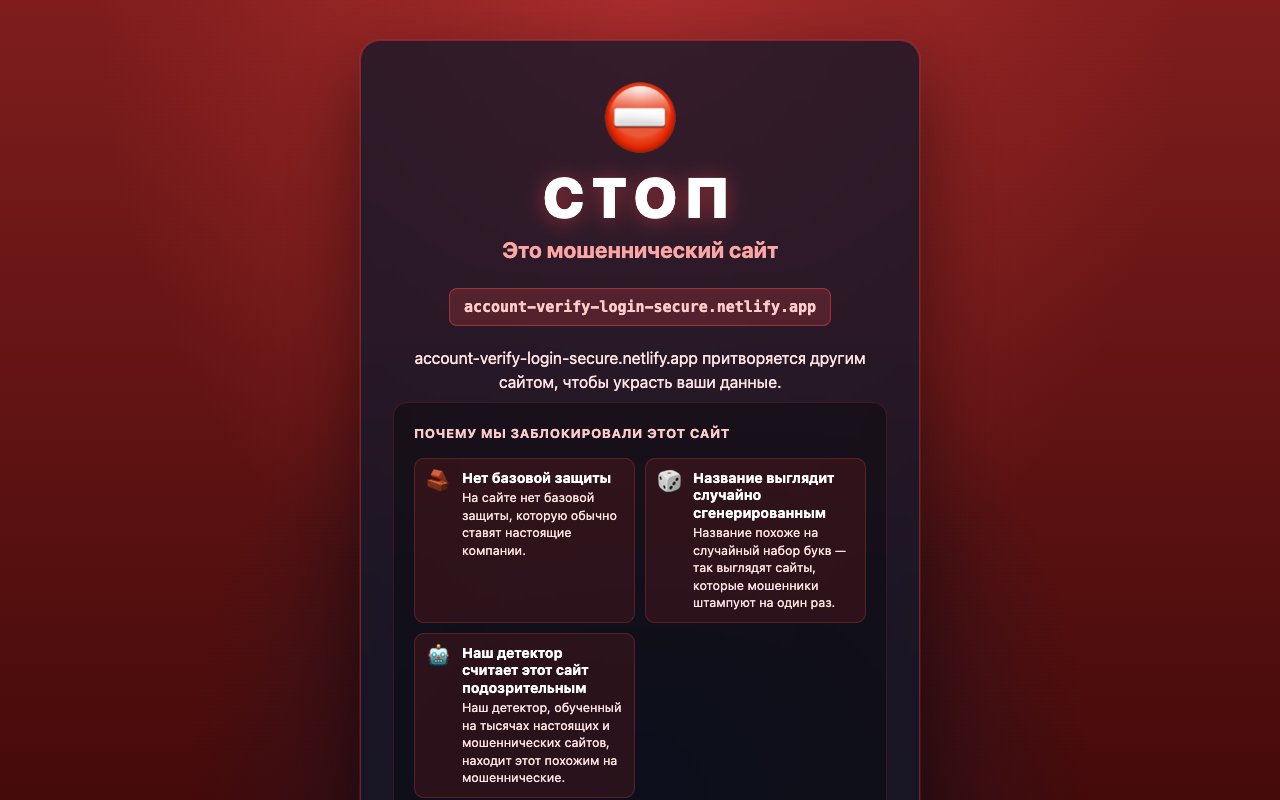
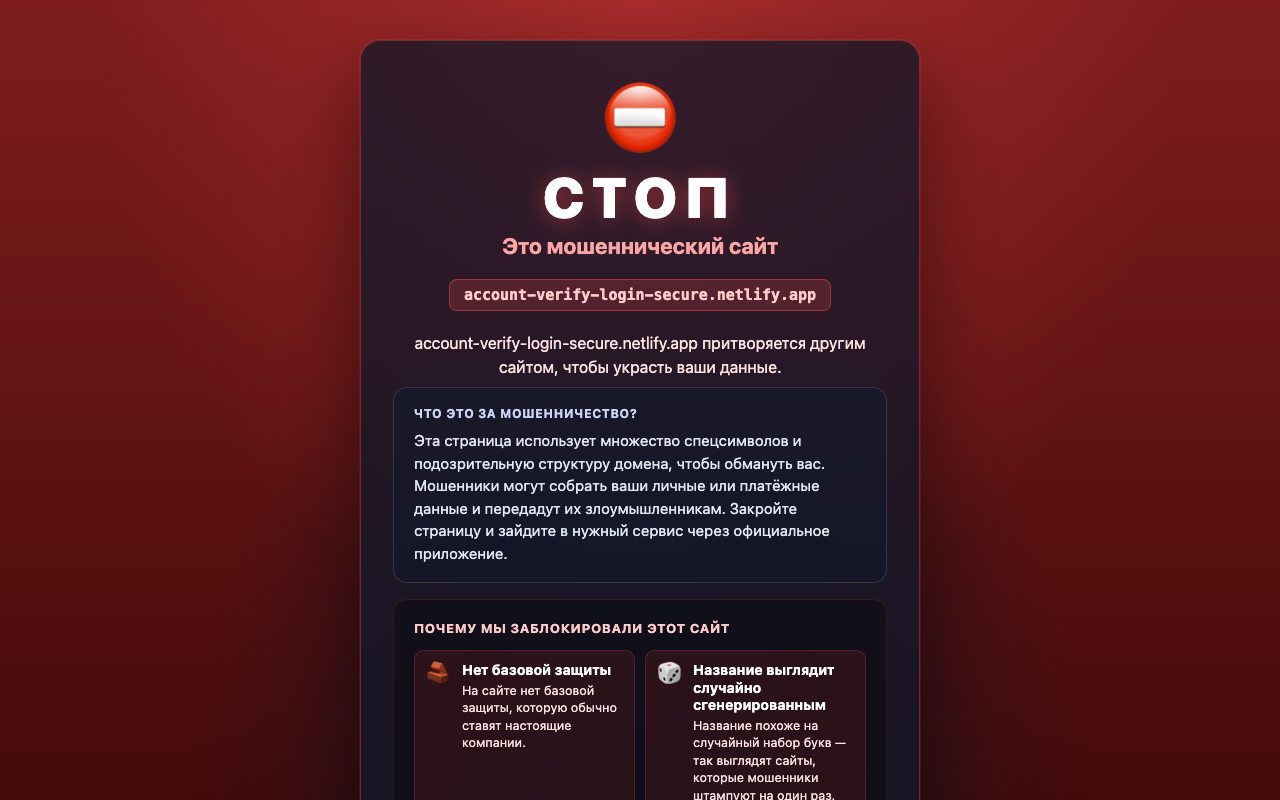
docs(stores): 0.2.1 submission kit, store screenshots of the new block page
- STORE_SUBMISSION_KIT, CWS_SUBMISSION, STORES §7, FOUNDER_TASKS,
  USER_ACTION_NOW, PLAN, the retired CWS listing checklist and
  extension/STORE_LISTING evidence name the 0.2.1 artifacts.
- storage justification and data-usage notes: the access token and the
  block page's "open anyway" allowances live in chrome.storage.session;
  the host justification says content scripts detect a dangerous page and
  the extension replaces it with its own warning page. Permissions are
  unchanged from 0.2.0.
- Store screenshots recaptured (en + ru) from the 0.2.1 build: 02 and 03
  showed the old in-page overlay. capture.mjs now waits for the tab to land
  on blocked.html.

Changed region(s): [[0.3125, 0.2812, 0.6875, 1.0]]

diff --git a/docs/CWS_SUBMISSION.md b/docs/CWS_SUBMISSION.md
@@ -1,4 +1,4 @@
-# Chrome Web Store — Submission Pack (Cleanway 0.2.0)
+# Chrome Web Store — Submission Pack (Cleanway 0.2.1)
 
 Code-grounded, copy-paste-ready answers for the CWS submission form. Everything
 here was derived from the **actual extension source** (`packages/extension-core/src/`)
@@ -21,9 +21,9 @@ survives review. A declaration that doesn't match the code gets the extension
 
 | Item | Value |
 |---|---|
-| Artifact | `dist/store-artifacts/cleanway-0.2.0-chrome.zip` (also valid for Edge/Opera/Brave/Vivaldi) |
-| Version | 0.2.0 (from `extension/manifest.json`; same in the Firefox and Safari manifests) |
-| SHA-256 | see `dist/store-artifacts/cleanway-0.2.0-sha256.txt` |
+| Artifact | `dist/store-artifacts/cleanway-0.2.1-chrome.zip` (also valid for Edge/Opera/Brave/Vivaldi) |
+| Version | 0.2.1 (from `extension/manifest.json`; same in the Firefox and Safari manifests) |
+| SHA-256 | see `dist/store-artifacts/cleanway-0.2.1-sha256.txt` |
 | Manifest | MV3, no remote code, no `eval`/obfuscation |
 | Icons | 16/32/48/128 present in `extension/public/icons/` |
 | Privacy policy URL | https://cleanway.ai/privacy-policy |
@@ -64,7 +64,7 @@ the user switches the webmail scanner on in Settings.
 | Permission | Justification |
 |---|---|
 | `activeTab` | Reads the active tab's URL only when the user runs the "Check page" command or a context-menu action, to score that page. |
-| `storage` | Stores user settings, local protection statistics, the opt-in webmail switch, sign-in tokens (if the user signs in), the random install ID and Family Hub key material in `chrome.storage.local`. |
+| `storage` | Stores user settings, local protection statistics, the opt-in webmail switch, the refresh token (if the user signs in), the random install ID and Family Hub key material in `chrome.storage.local`; the short-lived access token in `chrome.storage.session`, limited to the extension's own pages and background (`utils/token-store.js`), and the per-tab "open anyway" allowances of the block page (`background/block-redirect.js`). |
 | `alarms` | Runs periodic background jobs that must survive MV3 service-worker suspension: local history pruning (30 days), refreshing the sign-in before it expires, and the Family Hub notification poll. |
 | `contextMenus` | Adds right-click items "Check with Cleanway" (links) and "Privacy Audit" (pages) so users can trigger a check on demand. |
 | `notifications` | Shows OS notifications for Family Hub alerts (a family member's device blocked a dangerous site), with a click handler that opens the relevant page (`utils/family-notifier.js`). |
@@ -109,7 +109,7 @@ egress paths. **Bold = you must tick "collected" and disclose.**
 |---|---|---|
 | **Web history** | **YES** | Domain (hostname only, no full URL/path/query) of unknown links/pages is sent to `api.cleanway.ai/api/v1/public/check` to score safety. Known-safe + cached domains are never sent. `feedback/report` sends a domain when the user reports a wrong verdict. |
 | **Personal communications** | **YES** | Webmail scan (opt-in, off by default, Gmail/Outlook/Yahoo) sends **each message the user opens** — subject, sender name and address, Reply-To, body text, and the address and text of each link (not the HTML) — to `api/v1/email/analyze` for phishing analysis. Processed in memory, not stored. No other messages, recipients, thread IDs, or attachments. |
-| **Authentication info** | **YES** | Breach check sends only the **first 5 hex chars of the SHA-1** of a typed password (k-anonymity) to `api/v1/breach/check` — never the password or full hash. Signed-in users send the access token on account calls; the refresh token goes only to our Supabase project. Tokens are stored in `chrome.storage.local` and deleted by "Sign out". |
+| **Authentication info** | **YES** | Breach check sends only the **first 5 hex chars of the SHA-1** of a typed password (k-anonymity) to `api/v1/breach/check` — never the password or full hash. Signed-in users send the access token on account calls; the refresh token goes only to our Supabase project. The refresh token is stored in `chrome.storage.local`, the access token in `chrome.storage.session` (not readable by content scripts); "Sign out" deletes both. |
 | **Personally identifiable info** | **YES (signed-in users)** | Sign-in happens on cleanway.ai; the extension stores the email address and account ID locally. Device registration (`POST /api/v1/me/devices`) sends the random install ID, the browser's name and the extension version. Family Hub (optional) sends a display name and invite; alert contents are **end-to-end encrypted**. |
 | **User activity** | **YES** | Aggregate: dangerous-block counts (integer only, signed-in users), device display settings, and the site name the user reports with "Wrong result?". |
 | Location | No | — |
@@ -144,7 +144,7 @@ content,"* and *"we never sell your data."* Both are true and on-brand. See
 
 ## 6. Screenshots and promo tiles
 
-Done (2026-10-13), EN and RU, 1280×800, real captures of the 0.2.0 build with
+Done (2026-10-21), EN and RU, 1280×800, real captures of the 0.2.1 build with
 live API verdicts: `store-assets/browser-extension/screenshots/{en,ru}/01…05.png`
 — link badges, popup verdict (composited over its tab, see the README there),
 block page, credential warning, Settings. Promo tiles 440×280 and 1400×560 in
@@ -167,7 +167,7 @@ real mailbox) and the Privacy Audit panel.
 ## 8. Upload checklist
 
 1. [ ] Create/sign in to the CWS developer account ($5 one-time).
-2. [ ] Upload `cleanway-0.2.0-chrome.zip`.
+2. [ ] Upload `cleanway-0.2.1-chrome.zip`.
 3. [ ] Paste listing name / summary / description from `extension/STORE_LISTING.md` (§1).
 4. [ ] Paste single-purpose (§2) + permission justifications (§3).
 5. [ ] Fill Privacy practices (§4): tick every category marked YES, add the

diff --git a/docs/STORES.md b/docs/STORES.md
@@ -11,7 +11,7 @@ image and form answer for Google Play, Chrome, Edge, Firefox and Opera, in
 console order. The Android app's **Google Play** evidence (Data safety, VPN and
 foreground-service declarations, account-deletion URL, console checklist) is §6
 below; the targetSdk-36 build comes from the Expo SDK 54 upgrade (§6.A),
-submission still waits for the founder TODOs in §6.0. §7 is the 0.2.0
+submission still waits for the founder TODOs in §6.0. §7 is the 0.2.1
 checklist for the browser stores. The RuStore listing is in
 `docs/RUSTORE_SUBMISSION.md` §7.
 
@@ -194,7 +194,7 @@ App Store notes for the extension:
   test host, never a real brand's look-alike.
 - **Version**: the extension's `CFBundleShortVersionString` follows the app
   (`app.json` `version`); the manifest keeps its own extension version
-  (0.2.0) — Safari shows the app's.
+  (0.2.1) — Safari shows the app's.
 
 ### 5.2 Mac: a separate macOS app
 
@@ -460,11 +460,11 @@ permission in `app.json` (`blockedPermissions`) before uploading.
 
 ---
 
-## 7. Browser stores — console checklist for 0.2.0
+## 7. Browser stores — console checklist for 0.2.1
 
 All four uploads come from `bash scripts/build-extensions.sh && bash
-scripts/build-store-artifacts.sh` (`dist/store-artifacts/cleanway-0.2.0-*.zip`,
-checksums in `cleanway-0.2.0-sha256.txt`). Verify before uploading:
+scripts/build-store-artifacts.sh` (`dist/store-artifacts/cleanway-0.2.1-*.zip`,
+checksums in `cleanway-0.2.1-sha256.txt`). Verify before uploading:
 
 ```bash
 node scripts/test-extension-core.mjs && node scripts/test-extension-auth.mjs \
@@ -472,17 +472,24 @@ node scripts/test-extension-core.mjs && node scripts/test-extension-auth.mjs \
 npx -y web-ext@8 lint --source-dir extension-firefox   # 0 errors expected
 ```
 
-What 0.2.0 contains: the opt-in webmail scanner (PR #117 — off by default, mail
+What 0.2.1 adds over the never-submitted 0.2.0 (CHANGELOG `[Extension 0.2.1]`):
+the block page is the extension's own `src/blocked/blocked.html` (PR #207, the
+tab is taken there instead of an overlay inside the scam page), the access
+token lives in `chrome.storage.session` (#207), the API address is allowlisted
+(#196), hosting-tenant and dynamic-DNS name rules (#224), the popup over the
+block page says "scam" instead of "safe" (this release). Permissions are unchanged.
+
+What 0.2.0 already had: the opt-in webmail scanner (PR #117 — off by default, mail
 sites are optional permissions, Firefox's data-collection consent on Firefox
 140+) and sign-in through cleanway.ai with device registration (PR #107).
 
 | Store | Founder action |
 |---|---|
-| Chrome Web Store | Upload `cleanway-0.2.0-chrome.zip`; everything else: `docs/STORE_SUBMISSION_KIT.md` §3 (evidence: `docs/CWS_SUBMISSION.md` §3–5). |
-| Edge Add-ons | Upload `cleanway-0.2.0-edge.zip`; `docs/STORE_SUBMISSION_KIT.md` §4. |
-| Opera add-ons | Upload `cleanway-0.2.0-opera.zip`; same listing. |
-| Firefox AMO | Upload `cleanway-0.2.0-firefox.zip`. The manifest declares Firefox's `data_collection_permissions` (required: browsing activity, authentication information; optional: personal communications, website content — the webmail switch asks for these). Source code: our JS is unminified, but two vendored third-party libraries are minified — upload `cleanway-0.2.0-firefox-source.zip` and paste the reviewer notes (`docs/STORE_SUBMISSION_KIT.md` §5). Privacy policy URL. Notes for the reviewer: "Webmail scanning is off by default and asks for the mail sites and Firefox's data consent when switched on in Settings." |
-| Safari (Mac) | `xcrun safari-web-extension-converter dist/store-artifacts/cleanway-0.2.0-safari/` (§5.2 above). |
+| Chrome Web Store | Upload `cleanway-0.2.1-chrome.zip`; everything else: `docs/STORE_SUBMISSION_KIT.md` §3 (evidence: `docs/CWS_SUBMISSION.md` §3–5). |
+| Edge Add-ons | Upload `cleanway-0.2.1-edge.zip`; `docs/STORE_SUBMISSION_KIT.md` §4. |
+| Opera add-ons | Upload `cleanway-0.2.1-opera.zip`; same listing. |
+| Firefox AMO | Upload `cleanway-0.2.1-firefox.zip`. The manifest declares Firefox's `data_collection_permissions` (required: browsing activity, authentication information; optional: personal communications, website content — the webmail switch asks for these). Source code: our JS is unminified, but two vendored third-party libraries are minified — upload `cleanway-0.2.1-firefox-source.zip` and paste the reviewer notes (`docs/STORE_SUBMISSION_KIT.md` §5). Privacy policy URL. Notes for the reviewer: "Webmail scanning is off by default and asks for the mail sites and Firefox's data consent when switched on in Settings." |
+| Safari (Mac) | `xcrun safari-web-extension-converter dist/store-artifacts/cleanway-0.2.1-safari/` (§5.2 above). |
 | Safari (iPhone) | Nothing separate: ships inside the iOS app (§5.1, docs/IOS.md §2.5). |
 
 ---

diff --git a/store-assets/browser-extension/screenshots/README.md b/store-assets/browser-extension/screenshots/README.md
@@ -10,7 +10,7 @@ The file names are the same in `en/` and `ru/`.
 |------|---------------|
 | `01-link-badges.png` | An ordinary page of shared links with Cleanway's badges next to each link. Wikipedia and GitHub get green ticks. `parcel-fee-redelivery.top` and `prize-claim-now.xyz` get yellow warning marks. `account-verify-login-secure.netlify.app` gets a red cross, and its tooltip (opened by hovering) lists the three reasons for the verdict. |
 | `02-popup-verdict.png` | The toolbar popup on the blocked scam tab: "This is a scam site" with the "Close this page" button. It sits at the top right, over the block page of that same tab. **This one is a composite, see below.** |
-| `03-block-page.png` | The full-page block that the extension puts over `account-verify-login-secure.netlify.app` by itself: STOP, the domain, and the "Why we blocked this site" evidence cards. It was captured after the 5-second countdown on the "continue anyway" button had finished. |
+| `03-block-page.png` | The block page for `account-verify-login-secure.netlify.app`: STOP, the domain, and the "Why we blocked this site" evidence cards. Since 0.2.1 this is the extension's own page (`src/blocked/blocked.html`), which the tab is taken to, not an overlay inside the scam page. It was captured after the 5-second countdown on the "continue anyway" button had finished. |
 | `04-credential-warning.png` | The credential guard on a sign-in page at `secure-login-update.xyz`. The form's password would be posted to a different site (`collector-endpoint.example`) and the address is on a `.xyz` domain, so the full red "Stop — this looks like a scam page" banner appears. Nothing was typed into the form and it was never submitted. |
 | `05-settings.png` | The top of the Settings page: Account (not signed in), the "Who uses this browser" persona picker, and the start of "Email scanning" with the switch off, which is the default. |
 
@@ -18,8 +18,8 @@ No shots were dropped. All five planned screens were captured in both languages.
 
 ## How they were captured
 
-- **Date:** 2026-10-13
-- **Build:** the unpacked `extension/` folder at version 0.2.0 (MV3), loaded with `--load-extension` exactly as a user would load it.
+- **Date:** 2026-10-21 (all ten images; the 2026-10-13 set showed the old in-page overlay in 02 and 03)
+- **Build:** the unpacked `extension/` folder at version 0.2.1 (MV3), loaded with `--load-extension` exactly as a user would load it.
 - **Browser:** Chromium 151.0.7922.34 (Chrome for Testing from Playwright 1.62.1), new headless mode, on macOS. The viewport was 1280x800 at device scale factor 1.
 - **Locale:** for each set, Chromium's UI language was set (`-AppleLanguages`, `--lang` and `LANGUAGE`). The extension reported `chrome.i18n` UI locale `en_US` (which uses `_locales/en`) and `ru` respectively. The script refuses to capture if the locale does not match. The extension has no language setting of its own: it follows the browser's language.
 - **API:** the extension's built-in default, the production `https://api.cleanway.ai`. It made only read-only `GET /api/v1/public/check/<host>` calls. There was no sign-in, webmail scanning stayed off, and no form was submitted.
@@ -33,7 +33,7 @@ No shots were dropped. All five planned screens were captured in both languages.
 | `github.com` | safe, score 0 | 01 |
 | `parcel-fee-redelivery.top` | caution, score 25 (the address does not resolve) | 01 |
 | `prize-claim-now.xyz` | caution, score 25 (the address does not resolve) | 01 |
-| `account-verify-login-secure.netlify.app` | **dangerous**, score 65 (missing security headers, hyphen-heavy name, ML phishing model) | 01, 02, 03 |
+| `account-verify-login-secure.netlify.app` | **dangerous**, score 81 (missing security headers, random-looking name, ML phishing model) | 01, 02, 03 |
 | `secure-login-update.xyz` | caution, score 25 | 04 (the banner itself comes from the on-page credential check) |
 | `news.example` | caution, score 25 | host of the demo page in 01; no badge is drawn for the page's own host |
 

diff --git a/CHANGELOG.md b/CHANGELOG.md
@@ -29,7 +29,7 @@ Browser extension for Chrome, Edge, Opera, Firefox and Safari. The first version
 
 **Что нового**
 - **Предупреждение об опасном сайте — теперь отдельная страница расширения.** Раньше красный экран «СТОП» рисовался внутри самой мошеннической страницы, и она могла его убрать. Теперь вкладка переходит на страницу Cleanway, до которой сайт не может дотянуться. «Назад» возвращает туда, откуда вы пришли; «Всё равно открыть» пускает на этот сайт в этой вкладке на час, а форма пароля на нём остаётся под строгим присмотром.
-- **Значок Cleanway на странице предупреждения говорит «Это мошеннический сайт»**, а не «Эта страница безопасна», и предлагает закрыть вкладку.
+- **Окно Cleanway (по нажатию на значок) на странице предупреждения пишет «Это мошеннический сайт»**, а не «Эта страница безопасна», и предлагает закрыть вкладку.
 - **Ключ входа надёжнее спрятан.** Короткоживущий ключ входа хранится в памяти браузера, которую не видят скрипты на страницах, и стирается при закрытии браузера; войти заново не придётся — расширение само обновит вход при запуске.
 - **Расширение говорит только с сервером Cleanway.** Адрес сервера нельзя подменить на чужой.
 - **Ловит больше мошеннических сайтов на бесплатных хостингах** (например, `gmail-support.netlify.app`, `facebook-login0.vercel.app`) и на сервисах бесплатных доменов вроде duckdns.org.

diff --git a/extension/STORE_LISTING.md b/extension/STORE_LISTING.md
@@ -34,7 +34,7 @@ https://cleanway.ai/privacy-policy
 
 ---
 
-## Evidence (manifest version 0.2.0)
+## Evidence (manifest version 0.2.1)
 
 | Claim | Code |
 |---|---|
@@ -45,7 +45,7 @@ https://cleanway.ai/privacy-policy
 | No local blocklist: the name-rule scorer is a fallback when the API does not answer | `extension/src/background/index.js:166-173`, `:236-257` |
 | Webmail check is off until switched on in Settings; then sends subject, sender, reply-to, text and links (no HTML), not stored | `extension/src/background/webmail-scanner.js` (registers `webmail.js` only while `webmailScannerEnabled === true`), `extension/src/content/webmail.js` `buildPayload()`, `extension/src/options/options.js` (switch + `permissions.request`), `api/routers/email.py` (logs verdict and counts only) |
 | Password leak check sends a 5-char SHA-1 prefix | `extension/src/content/password-pwned.js:1-10`, `:82` |
-| Sign-in tokens in `chrome.storage.local`; browser linked as an account device | `extension/src/utils/auth-session.js:39`, `extension/src/background/auth.js:38`; `docs/ACCOUNTS_BILLING_PLAN.md` §9 |
+| Sign-in: refresh token in `chrome.storage.local`, access token in `chrome.storage.session` (content scripts cannot read it, `extension/src/utils/token-store.js`); browser linked as an account device | `extension/src/utils/auth-session.js:39`, `extension/src/background/auth.js:38`; `docs/ACCOUNTS_BILLING_PLAN.md` §9 |
 | Privacy Audit runs in the page | `extension/src/content/index.js:311-336` |
 | Notifications = family warnings only | `extension/src/utils/family-notifier.js:141` (only `notifications.create`) |
 

diff --git a/docs/PLAN.md b/docs/PLAN.md
@@ -28,7 +28,7 @@
 
 | Что | Состояние |
 |---|---|
-| Расширение 0.2.0 (Chrome, Edge, Opera, Firefox) | архивы в `dist/store-artifacts/`, тексты и анкеты в `docs/CWS_SUBMISSION.md`, `docs/STORES.md` §7 |
+| Расширение 0.2.1 (Chrome, Edge, Opera, Firefox) | архивы в `dist/store-artifacts/`, тексты и анкеты в `docs/CWS_SUBMISSION.md`, `docs/STORES.md` §7 |
 | Android 1.0.4 | Expo 54, targetSdk 36, 16 КБ страницы (#120); проверено на Samsung Galaxy A16 и эмуляторе Android 16 |
 | Покупка в Google Play | RevenueCat в приложении (#121) и на сервере (#118, миграция 024 применена) |
 | Аккаунты и устройства | #108, миграции 019–024 применены на тестовой и боевой базе |

diff --git a/docs/FOUNDER_TASKS.md b/docs/FOUNDER_TASKS.md
@@ -43,7 +43,7 @@
 ### Как
 Всё готово в [`docs/CWS_SUBMISSION.md`](CWS_SUBMISSION.md) — оттуда copy-paste.
 1. Создать developer-аккаунт: https://chrome.google.com/webstore/devconsole (**$5** разово).
-2. Загрузить `dist/store-artifacts/cleanway-0.2.0-chrome.zip` (пересобран, проверен).
+2. Загрузить `dist/store-artifacts/cleanway-0.2.1-chrome.zip` (пересобран, проверен).
 3. Вставить листинг (name / summary / description) — §1 документа.
 4. Вставить **single-purpose** (§2) + **обоснования 5 permissions** (§3).
    *Без обоснований — автоматический reject.*

diff --git a/docs/marketing/chrome-web-store-listing.md b/docs/marketing/chrome-web-store-listing.md
@@ -168,7 +168,7 @@ Suggested image size: 1280×800. Show real UI, no mockups.
 ## Submission checklist
 
 - [ ] $5 dev account purchased
-- [ ] ZIP is `dist/store-artifacts/cleanway-0.2.0-chrome.zip`, rebuilt clean via `bash scripts/build-extensions.sh && bash scripts/build-store-artifacts.sh`
+- [ ] ZIP is `dist/store-artifacts/cleanway-0.2.1-chrome.zip`, rebuilt clean via `bash scripts/build-extensions.sh && bash scripts/build-store-artifacts.sh`
 - [ ] Privacy policy URL works: https://cleanway.ai/privacy-policy
 - [ ] Permissions justifications match what manifest.json actually requests
 - [ ] 5 screenshots uploaded at 1280×800
